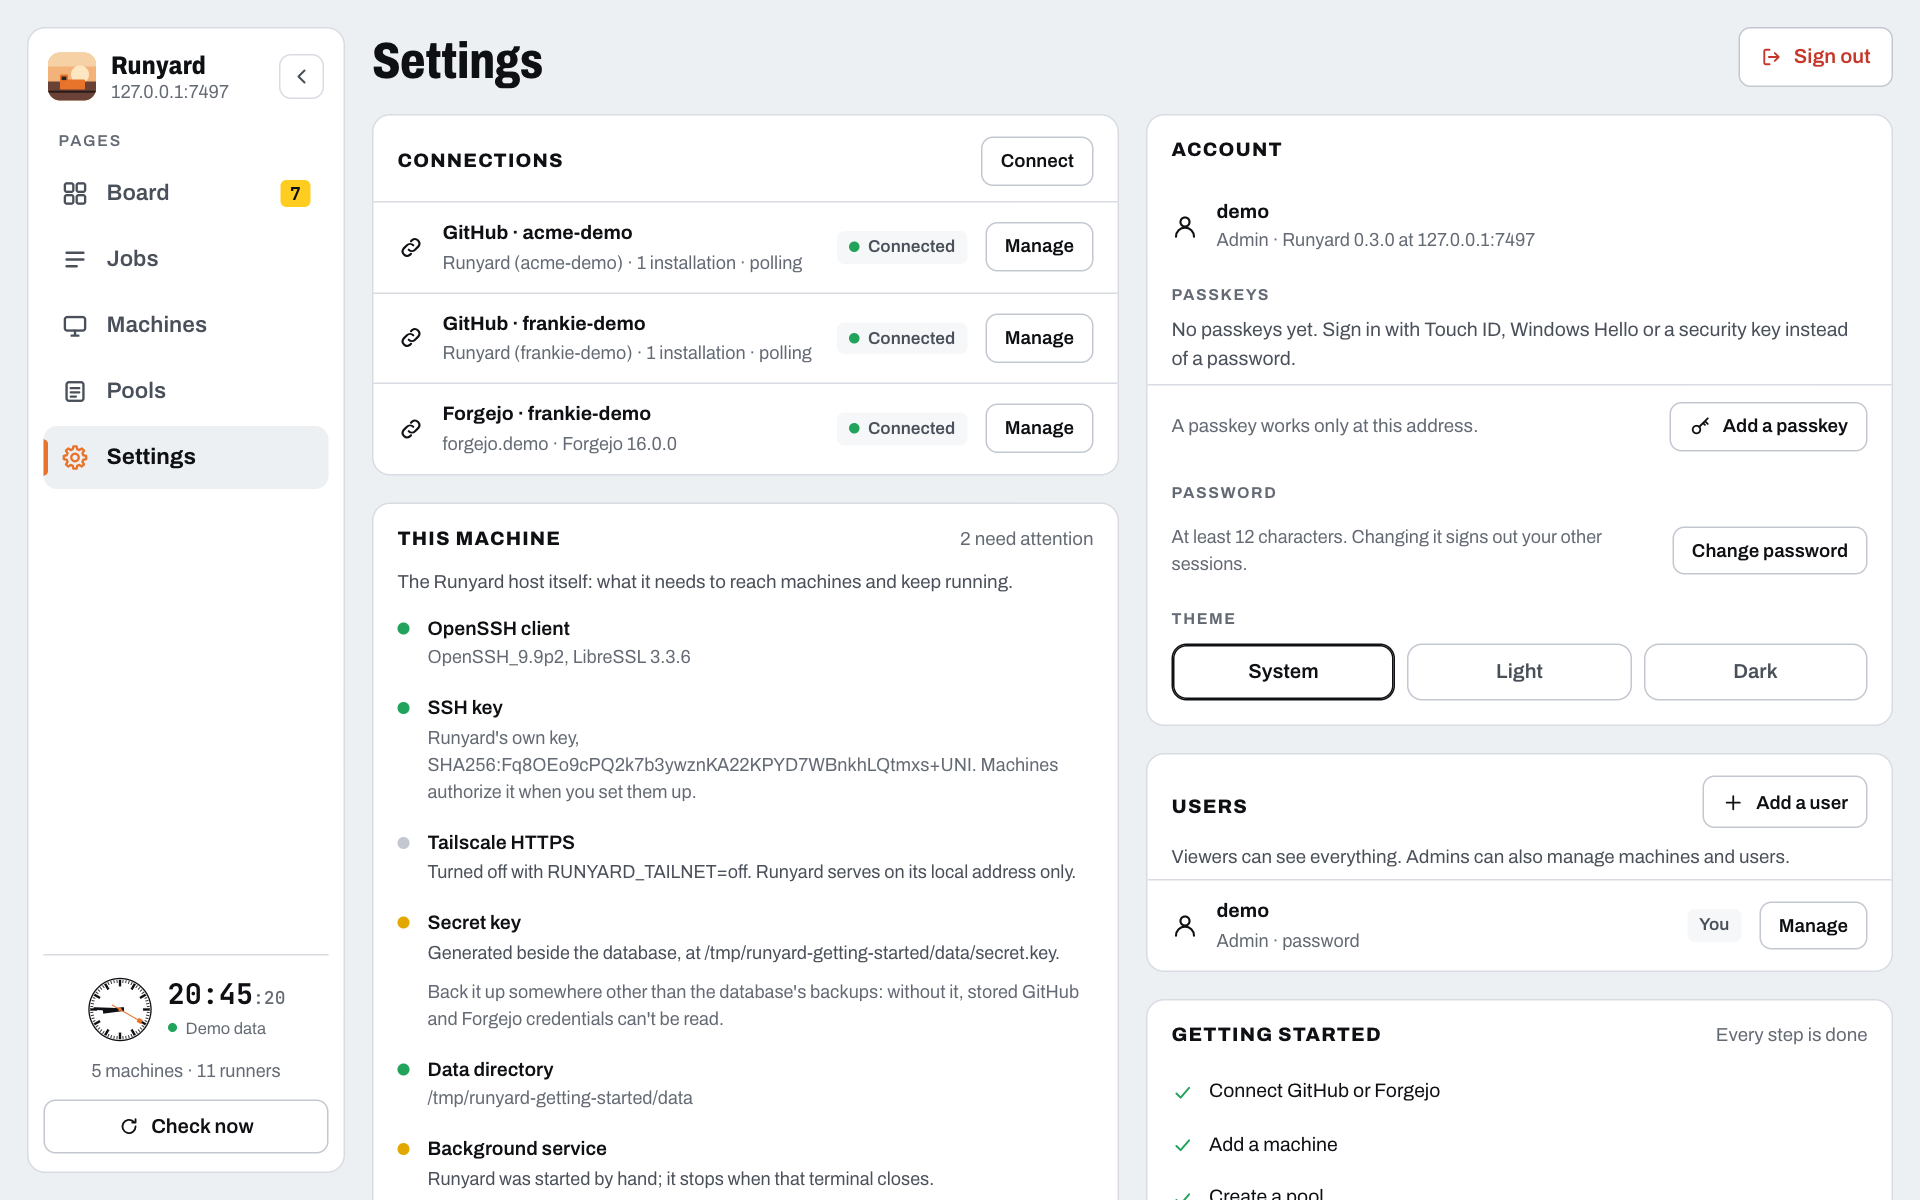
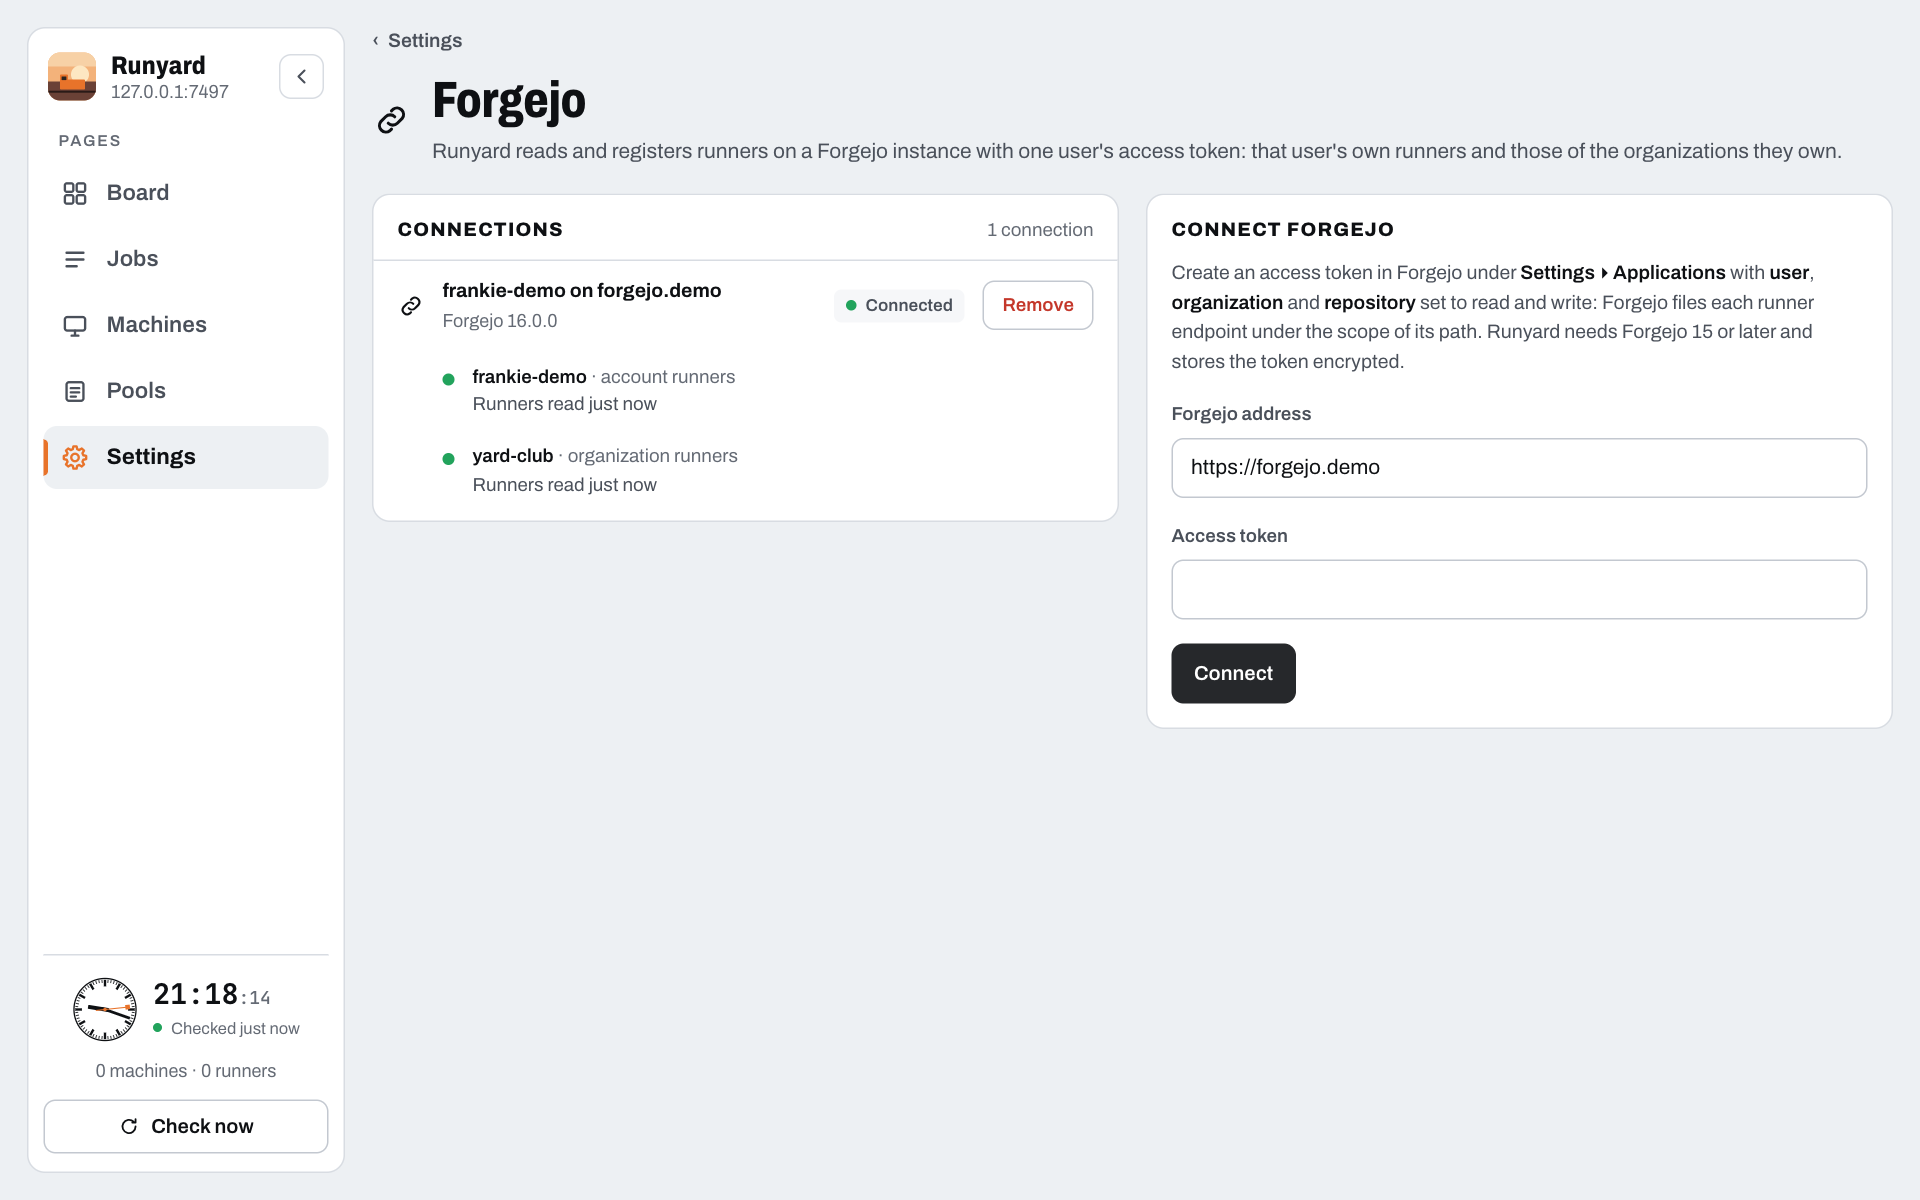
Take the Getting started screenshots from a brand-new install
The demo script takes --fresh: the fakes still answer, but nothing is
connected, added or run yet, and the dashboard doesn't say it's demo
data. It prints the fake Forgejo's address and token.

The screenshots now follow a new install: claiming it, the Getting
started route, connecting Forgejo, adding lab-pi, the first pool, its
review and the workflow to copy.

diff --git a/apps/server/scripts/demo.ts b/apps/server/scripts/demo.ts
@@ -3,6 +3,10 @@
  * status` and every SSH session, so nothing real is contacted. For UI work
  * and screenshots: `bun apps/server/scripts/demo.ts`, then open the URL and
  * enter the setup code it prints. Data lives in a fresh temporary directory.
+ *
+ * `--fresh` starts a brand-new install instead, for the Getting started screenshots: the fakes
+ * still answer, but nothing is connected, added or run yet, and the dashboard doesn't say it's
+ * demo data. It prints the fake Forgejo's address and token to connect with.
  */
 import { existsSync } from "node:fs";
 import { chmod, mkdir, mkdtemp } from "node:fs/promises";
@@ -44,7 +48,8 @@ if (!existsSync(identity)) {
     identity,
   ]);
 }
-process.env.RUNYARD_DEMO = "1";
+const fresh = process.argv.includes("--fresh");
+process.env.RUNYARD_DEMO = fresh ? "0" : "1";
 
 const fake = new FakeMachines();
 const node = (id: string, host: string, os: string, online: boolean, extra: object = {}) => ({
@@ -417,40 +422,42 @@ forgejo.repos = [
   { id: 31, full_name: "frankie-demo/dotfiles", private: true, owner: { login: "frankie-demo" } },
   { id: 32, full_name: "yard-club/garden", private: true, owner: { login: "yard-club" } },
 ];
-forgejo.runners.set("user", [
-  {
-    id: 41,
-    uuid: "demo-41",
-    name: "pi-01",
-    status: "idle",
-    labels: ["docker", "arm64"],
-    version: "13.2.0",
-    ephemeral: false,
-  },
-]);
-forgejo.runners.set("org:yard-club", [
-  {
-    id: 42,
-    uuid: "demo-42",
-    name: "rack-01",
-    status: "active",
-    labels: ["docker"],
-    version: "13.2.0",
-    ephemeral: false,
-  },
-  {
-    id: 43,
-    uuid: "demo-43",
-    name: "rack-02",
-    status: "offline",
-    labels: ["docker"],
-    version: "13.2.0",
-    ephemeral: false,
-  },
-]);
-forgejo.jobs.set("org:yard-club", [
-  { id: 51, run_id: 5, repo_id: 32, name: "lint", status: "waiting", runs_on: ["docker"] },
-]);
+if (!fresh) {
+  forgejo.runners.set("user", [
+    {
+      id: 41,
+      uuid: "demo-41",
+      name: "pi-01",
+      status: "idle",
+      labels: ["docker", "arm64"],
+      version: "13.2.0",
+      ephemeral: false,
+    },
+  ]);
+  forgejo.runners.set("org:yard-club", [
+    {
+      id: 42,
+      uuid: "demo-42",
+      name: "rack-01",
+      status: "active",
+      labels: ["docker"],
+      version: "13.2.0",
+      ephemeral: false,
+    },
+    {
+      id: 43,
+      uuid: "demo-43",
+      name: "rack-02",
+      status: "offline",
+      labels: ["docker"],
+      version: "13.2.0",
+      ephemeral: false,
+    },
+  ]);
+  forgejo.jobs.set("org:yard-club", [
+    { id: 51, run_id: 5, repo_id: 32, name: "lint", status: "waiting", runs_on: ["docker"] },
+  ]);
+}
 
 // A fictional boat account: the VM running the lint job, and one left running for hours.
 const boat = new FakeBoat();
@@ -518,7 +525,7 @@ const demoApps = [
   },
 ];
 const stored = listGithubApps(db);
-for (const app of demoApps) {
+for (const app of fresh ? [] : demoApps) {
   const existing = stored.find((a) => a.slug === app.slug);
   if (existing) {
     await secrets.set(`github.${existing.id}.pem`, app.fake.privateKey);
@@ -542,12 +549,12 @@ for (const app of demoApps) {
   );
 }
 await githubMonitor.refreshAll();
-if (listConnections(db).length === 0) {
+if (!fresh && listConnections(db).length === 0) {
   await saveConnection(db, secrets, "https://forgejo.demo", forgejo.login, forgejo.token);
 }
 await forgejoMonitor.refreshAll();
-await boatMonitor.connect(boat.token);
-if (listMachines(db).length === 0) {
+if (!fresh) await boatMonitor.connect(boat.token);
+if (!fresh && listMachines(db).length === 0) {
   createMachine(db, {
     name: "Studio mini",
     sshTarget: "ci@studio-mini.demo.ts.net",
@@ -576,7 +583,7 @@ if (listMachines(db).length === 0) {
     transport: "openssh",
   });
 }
-if (!listMachines(db).some((m) => m.sshTarget === "runyard@spare-lxc.demo.ts.net")) {
+if (!fresh && !listMachines(db).some((m) => m.sshTarget === "runyard@spare-lxc.demo.ts.net")) {
   createMachine(db, {
     name: "Spare LXC",
     sshTarget: "runyard@spare-lxc.demo.ts.net",
@@ -638,8 +645,10 @@ const queueGpuJob = () => {
     },
   ]);
 };
-queueGpuJob();
-setInterval(queueGpuJob, 120_000).unref();
+if (!fresh) {
+  queueGpuJob();
+  setInterval(queueGpuJob, 120_000).unref();
+}
 
 // Run history: a week of finished jobs on the first machines' runners, seeded once.
 if (acme && listJobs(db, { since: 0, limit: 1 }).length === 0) {
@@ -676,3 +685,7 @@ if (acme && listJobs(db, { since: 0, limit: 1 }).length === 0) {
 // Check right away instead of waiting for the next minute-long round.
 await monitor.checkNow();
 console.log("Demo yard: every answer is fake; nothing real is contacted.");
+if (fresh)
+  console.log(
+    `Fresh install. Connect Forgejo at https://forgejo.demo with the token ${forgejo.token}`,
+  );

diff --git a/docs/getting-started.md b/docs/getting-started.md
@@ -40,7 +40,9 @@ Runyard prints a one-time setup code when it first starts: in the terminal, or i
 it runs as a service (see [Logs](operating.md#logs)). Open the dashboard, enter the code and
 create the first admin. **Getting started** on the Board then walks through the rest.
 
-![The Claim your Runyard page: the one-time setup code entered, then a username and password for the first admin](assets/getting-started/claim.png)
+![The Claim your Runyard page on a new install: the one-time setup code entered, then the first admin's username](assets/getting-started/claim.png)
+
+![The Getting started route on a new install, at its first stop: connect GitHub or Forgejo](assets/getting-started/start.png)
 
 ## 3. Connect your forge
 
@@ -53,7 +55,7 @@ Under **Settings ▸ Connections**:
 
 See [Forges](forges.md).
 
-![Settings, with GitHub and Forgejo connections under Connections](assets/getting-started/connect.png)
+![Settings ▸ Forgejo after connecting with an access token: the account's and the organization's runners read](assets/getting-started/connect.png)
 
 ## 4. Add a machine
 
@@ -72,14 +74,14 @@ Click **Put it in a pool** once the machine is ready, or **New pool** on **Pools
 which repositories its runners serve, which labels they carry, and which machines they run on.
 See [Pools](pools.md).
 
-![A new pool: two repositories chosen and the web-build label](assets/getting-started/pool.png)
+![The first pool: one Forgejo repository chosen and the linux-build label](assets/getting-started/pool.png)
 
 ## 6. Review and run
 
 **Create and review** shows exactly what each machine will get: tools, runners, hooks. Click
 **Run** on each. The runners come online within a minute.
 
-![Review and run for the new pool: the tools, runners and job hooks lab-pi will get](assets/getting-started/review.png)
+![Review and run for the first pool: the tools and the runner lab-pi will get](assets/getting-started/review.png)
 
 ## 7. Send it a job
 
@@ -88,4 +90,4 @@ repository. Start with **Starter** to see a job land on your machine, then pick 
 **Generic** for a full CI. Push it, and the job runs on your machine. See
 [Writing workflows](workflows.md#start-from-a-template).
 
-![Use it in a workflow on the pool: the runs-on line and the Starter workflow to copy](assets/getting-started/workflow.png)
+![Use it in a workflow on the new pool: the runs-on line and the Starter workflow to copy](assets/getting-started/workflow.png)
